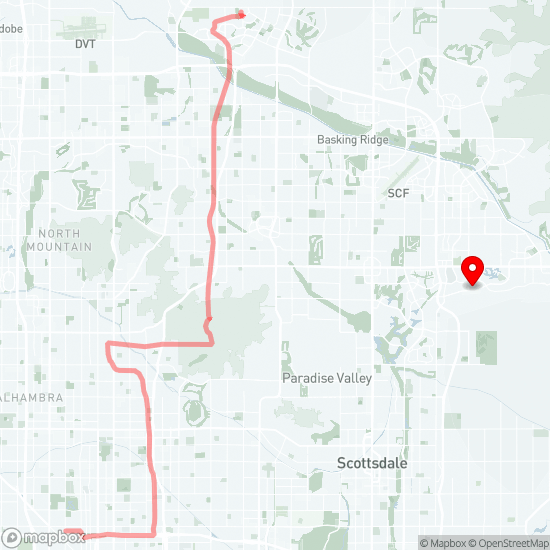
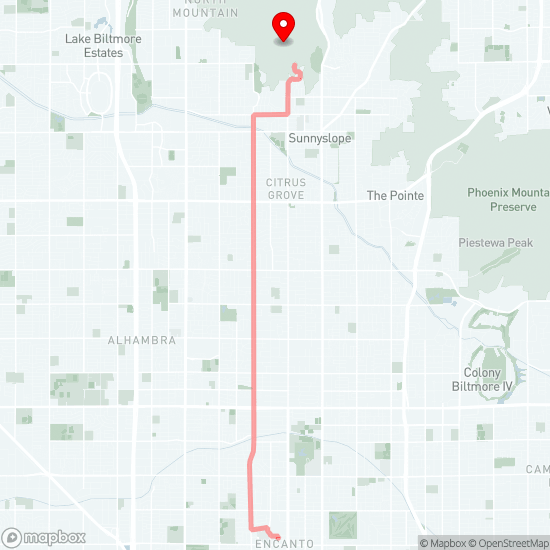
added comments

diff --git a/WarehouseManagementWindow.java b/WarehouseManagementWindow.java
@@ -21,14 +21,21 @@ public class WarehouseManagementWindow extends JFrame {
    private JButton deleteTruckButton;
    private JButton updateTruckButton;
    private JButton openRouteURLButton;
-   private Warehouse warehouse; // Add Warehouse object
+   private Warehouse warehouse;
+   public double wrlongitude, wrlatitude;
+   public JPanel rightPane;
+   public double[] routeBegin, routeEnd;
+
+   /**
+    * Constructor for the WarehouseManagementWindow class
+    */
 
    public WarehouseManagementWindow() {
 
       Random random = new Random();
 
-      double wrlongitude = -1 * (random.nextDouble() * (112.4 - 111.8) + 111.8);
-      double wrlatitude = random.nextDouble() * (33.6 - 33.4409) + 33.4409;
+      wrlongitude = -1 * (random.nextDouble() * (112.4 - 111.8) + 111.8);
+      wrlatitude = random.nextDouble() * (33.6 - 33.4409) + 33.4409;
 
       // Create Warehouse object
       warehouse = new Warehouse("Warehouse Name", 123, wrlongitude, wrlatitude);
@@ -86,19 +93,10 @@ public class WarehouseManagementWindow extends JFrame {
       bottomLeftPanel.add(updateTruckButton);
       bottomLeftPanel.add(openRouteURLButton);
 
-      // topLeftPanel.setPreferredSize(new Dimension(leftPane.getWidth(), (int)
-      // (leftPane.getHeight() * 0.15)));
-      // middleLeftPanel.setPreferredSize(new Dimension(leftPane.getWidth(), (int)
-      // (leftPane.getHeight() * 0.5)));
-      // bottomLeftPanel.setPreferredSize(new Dimension(leftPane.getWidth(), (int)
-      // (leftPane.getHeight() * 0.35)));
-
       // Add sections to left pane
       leftPane.add(topLeftPanel);
       leftPane.add(middleLeftPanel);
       leftPane.add(bottomLeftPanel);
-
-      // Set the preferred sizes of the panels
 
       // Add panes to main window
       add(leftPane, BorderLayout.WEST);
@@ -110,6 +108,24 @@ public class WarehouseManagementWindow extends JFrame {
       truckInfoTableModel.addColumn("Value");
       truckInfoTable.setModel(truckInfoTableModel);
 
+      openRouteURLButton.addActionListener(new ActionListener() {
+         @Override
+         public void actionPerformed(ActionEvent e) {
+            String selectedTruck = (String) truckDropdown.getSelectedItem();
+            if (selectedTruck != null) {
+               // Get the truck object from the warehouse object
+               for (Truck truck : warehouse.getTrucks()) {
+                  if (truck.getName().equals(selectedTruck)) {
+                     GoogleMaps.getPolyline(truck.routeBegin[1], truck.routeBegin[0], truck.routeEnd[1],
+                           truck.routeEnd[0]);
+                  }
+               }
+            }
+
+         }
+
+      });
+
       // Add action listener to truck dropdown
       truckDropdown.addActionListener(new ActionListener() {
          @Override
@@ -120,7 +136,25 @@ public class WarehouseManagementWindow extends JFrame {
                for (Truck truck : warehouse.getTrucks()) {
                   if (truck.getName().equals(selectedTruck)) {
                      // Update truck info table
-                     updateTruckInfoTable(truck);
+                     try {
+                        updateTruckInfoTable(truck);
+                     } catch (IOException e1) {
+                        e1.printStackTrace();
+                     }
+                     // ImageIcon mapImage = new ImageIcon("map"+truck.getNumberPlate()+".png");
+                     // JLabel mapLabel = new JLabel(mapImage);
+                     // rightPane.add(mapLabel, BorderLayout.CENTER);
+                     // rightPane.revalidate();
+                     // rightPane.repaint();
+                     // rightPane.removeAll();
+                     rightPane.removeAll();
+                     rightPane.add(new JLabel(new ImageIcon("map" + truck.getNumberPlate() + ".png")),
+                           BorderLayout.CENTER);
+                     rightPane.revalidate();
+                     rightPane.repaint();
+
+                     // rightPane.add(leftPane, BorderLayout.EAST);
+
                   }
                }
             }
@@ -145,41 +179,15 @@ public class WarehouseManagementWindow extends JFrame {
             double[] routeEnd = { -1 * (random.nextDouble() * (112.4 - 111.8) + 111.8),
                   random.nextDouble() * (33.6 - 33.4409) + 33.4409 };
             System.out.println((routeBegin[1] + "," + routeBegin[0] + "\n" + routeEnd[1] + "," + routeEnd[0]));
-            // System.out.println(GoogleMaps.getPolyline(routeBegin[1], routeBegin[0],
-            // routeEnd[1], routeEnd[0]));
-            // try {
-            // System.out.println(
-            // URLEncoder.encode(GoogleMaps.getPolyline(routeBegin[1], routeBegin[0],
-            // routeEnd[1], routeEnd[0]),
-            // StandardCharsets.UTF_8.toString()));
 
-            // } catch (UnsupportedEncodingException e1) {
-            // // TODO Auto-generated catch block
-            // e1.printStackTrace();
-            // }
-
-            String currPolyline = null;
+            // Create the truck object
+            String currPolyline = GoogleMaps.getPolyline(routeBegin[1], routeBegin[0], routeEnd[1], routeEnd[0]);
             try {
-               currPolyline = GoogleMaps.getPolyline(routeBegin[1], routeBegin[0], routeEnd[1], routeEnd[0]);
-               getImageMap(currPolyline, wrlongitude, wrlatitude);
-               rightPane.removeAll();
-
-               // Create a new JLabel to display the map image
-               ImageIcon mapImage = new ImageIcon("map.png");
-               JLabel mapLabel = new JLabel(mapImage);
-
-               // Add the map label to the right panel
-               rightPane.add(mapLabel);
-
-               // Repaint the right panel to reflect the changes
-               rightPane.revalidate();
-               rightPane.repaint();
+               getImageMap(currPolyline, wrlongitude, wrlatitude, numberPlate);
             } catch (IOException e1) {
                // TODO Auto-generated catch block
                e1.printStackTrace();
             }
-
-            // Create the truck object
             Truck truck = new Truck(truckName, numberPlate, goods, singleDriveTime, currentLongitude, currentLatitude,
                   routeBegin, routeEnd,
                   drivingSpeed, fuelEfficiency, currPolyline);
@@ -189,7 +197,12 @@ public class WarehouseManagementWindow extends JFrame {
 
             // Update the truck dropdown and truck info table
             updateTruckDropdown();
-            updateTruckInfoTable(truck);
+            try {
+               updateTruckInfoTable(truck);
+            } catch (IOException e1) {
+               // TODO Auto-generated catch block
+               e1.printStackTrace();
+            }
          }
       });
 
@@ -201,13 +214,30 @@ public class WarehouseManagementWindow extends JFrame {
       setVisible(true);
    }
 
-   public void getImageMap(String polyline, double wrlong, double wrlati) throws IOException {
-      String urlCall = "https://api.mapbox.com/styles/v1/aryankeluskar/clpl75rqc009101px48ya3a8r/static/pin-s+F00("+wrlong+","+wrlati+"),path-5+f44-0.5("
+   /**
+    * 
+    * @param polyline - String - string representation of the encoded polyline
+    * @param wrlong   - double - longitude of the warehouse
+    * @param wrlati   - double - latitude of the warehouse
+    * @param lic      - String - license plate of the truck
+    * @throws IOException
+    */
+
+   public void getImageMap(String polyline, double wrlong, double wrlati, String lic) throws IOException {
+
+      String urlCall = "https://api.mapbox.com/styles/v1/aryankeluskar/clpl75rqc009101px48ya3a8r/static/pin-s+F00("
+            + wrlong + "," + wrlati + "),path-5+f44-0.5("
             + URLEncoder.encode(polyline, StandardCharsets.UTF_8)
             + ")/auto/550x550?access_token=" + APIKeys.getMapBoxAPI();
-      saveImage(urlCall, "map.png");
+      System.out.println(urlCall);
+      saveImage(urlCall, "map" + lic + ".png");
    }
 
+   /**
+    * @param imageUrl        - String - the url of the image to be saved
+    * @param destinationFile - String - the file path where the image will be saved
+    * @throws IOException
+    */
    public static void saveImage(String imageUrl, String destinationFile) throws IOException {
       URL url = new URL(imageUrl);
       InputStream is = url.openStream();
@@ -224,6 +254,10 @@ public class WarehouseManagementWindow extends JFrame {
       os.close();
    }
 
+   /**
+    * Generates random data for the warehouse and updates the GUI
+    */
+
    private void generateRandomData() {
       Random random = new Random();
 
@@ -238,6 +272,9 @@ public class WarehouseManagementWindow extends JFrame {
       updateTruckDropdown();
    }
 
+   /**
+    * Updates the truck dropdown with the trucks in the warehouse's fleet
+    */
    private void updateTruckDropdown() {
       DefaultComboBoxModel<String> truckDropdownModel = new DefaultComboBoxModel<>();
       for (int i = 1; i <= warehouse.getFleet().size(); i++) {
@@ -247,7 +284,13 @@ public class WarehouseManagementWindow extends JFrame {
 
    }
 
-   private void updateTruckInfoTable(Truck truck) {
+   /**
+    * Updates the truck info table with the data from the given truck
+    * 
+    * @param truck - Truck - the truck object to get the data from
+    * @throws IOException
+    */
+   private void updateTruckInfoTable(Truck truck) throws IOException {
       DefaultTableModel truckInfoTableModel = (DefaultTableModel) truckInfoTable.getModel();
       truckInfoTableModel.setRowCount(0);
 

diff --git a/GoogleMaps.java b/GoogleMaps.java
@@ -5,6 +5,21 @@ import java.net.http.HttpRequest;
 import java.net.http.HttpResponse;
 
 public class GoogleMaps {
+
+   /**
+    * Stores the Google Maps API key and the MapBox API key in APIKeys.java.
+    * Separate file for API keys because I want to push the other files to GitHub without
+    * exposing the API keys.
+    */
+
+   /**
+    * Returns the name of the location given the latitude and longitude
+    * 
+    * @param lati  - double - latitude of the location
+    * @param longi - double - longitude of the location
+    * @return String - name of the location after calling the Google Maps API
+    */
+
    public static String getName(double lati, double longi) {
       String urlCall = String.format(
             "https://maps.googleapis.com/maps/api/geocode/json?latlng=%f,%f&key=%s", lati, longi,
@@ -29,12 +44,23 @@ public class GoogleMaps {
                   "         \"geometry\" : ")));
    }
 
+   /**
+    * Returns the polyline string given the latitude and longitude of the start and
+    * end points
+    * 
+    * @param lati1  - double - latitude of the start point
+    * @param longi1 - double - longitude of the start point
+    * @param lati2  - double - latitude of the end point
+    * @param longi2 - double - longitude of the end point
+    * @return String - encoded polyline string after calling the Google Maps API
+    */
    public static String getPolyline(double lati1, double longi1, double lati2, double longi2) {
       String urlCall = String.format(
             "https://maps.googleapis.com/maps/api/directions/json?destination=%f,%f&origin=%f,%f&key=%s", lati1,
             longi1, lati2, longi2, APIKeys.getGoogleAPI());
 
-      
+      System.out.println(urlCall);
+
       HttpRequest request = HttpRequest.newBuilder()
             .uri(URI.create(urlCall))
             // .header("X-RapidAPI-Host", "jokes-by-api-ninjas.p.rapidapi.com")
@@ -51,11 +77,13 @@ public class GoogleMaps {
       }
       return response.body().substring(response.body().indexOf("overview_polyline\" : \n" + //
             "         {\n" + //
-            "            \"points\" : \"")+("overview_polyline\" : \n" + //
+            "            \"points\" : \"")
+            + ("overview_polyline\" : \n" + //
                   "         {\n" + //
-                  "            \"points\" : \"").length(), response.body().indexOf("\"\n" + //
-                        "         },\n" + //
-                        "         \"summary\""));
+                  "            \"points\" : \"").length(),
+            response.body().indexOf("\"\n" + //
+                  "         },\n" + //
+                  "         \"summary\""));
    }
 
    public static void main(String[] args) {

diff --git a/Truck.java b/Truck.java
@@ -4,8 +4,8 @@ public class Truck {
    private String[] goods;
    private double singleDriveTime;
    private double[] currentLocation;
-   private double[] routeBegin;
-   private double[] routeEnd;
+   public double[] routeBegin;
+   public double[] routeEnd;
    private String polylineString;
    private double totalDriveTime;
    private double drivingSpeed;
@@ -40,7 +40,6 @@ public class Truck {
    public String getPolylineString() {
       return polylineString;
    }
-   
 
    // Getter and Setter for numberPlate
    public String getNumberPlate() {
@@ -106,36 +105,8 @@ public class Truck {
       return drivingSpeed;
    }
 
-   public void setDrivingSpeed(double drivingSpeed) {
-      this.drivingSpeed = drivingSpeed;
-   }
-
-   // Getter and Setter for fuelEfficiency
    public double getFuelEfficiency() {
       return fuelEfficiency;
    }
 
-   public void setFuelEfficiency(double fuelEfficiency) {
-      this.fuelEfficiency = fuelEfficiency;
-   }
-
-   // Method to calculate distance traveled
-   public double calculateDistanceTraveled() {
-      return drivingSpeed * singleDriveTime;
-   }
-
-   // Method to check if the truck needs refueling
-   public boolean needsRefueling() {
-      double distance = calculateDistanceTraveled();
-      double fuelConsumed = distance / fuelEfficiency;
-      return fuelConsumed >= 0.99;
-   }
-
-   // Method to simulate refueling the truck
-   public void refuel() {
-      totalDriveTime += singleDriveTime;
-      singleDriveTime = 0.0;
-   }
-
-   
 }

diff --git a/Warehouse.java b/Warehouse.java
@@ -9,7 +9,7 @@ public class Warehouse {
    public Warehouse(String name, double id, double longitude, double latitude) {
       this.name = name;
       this.id = id;
-      this.location = new double[]{longitude, latitude};
+      this.location = new double[] { longitude, latitude };
       this.fleet = new ArrayList<Truck>();
    }
 
@@ -46,8 +46,6 @@ public class Warehouse {
    public double getLatitude() {
       return location[1];
    }
-
-   
 
    public void setLocation(double longitude, double latitude) {
       this.location[0] = longitude;
